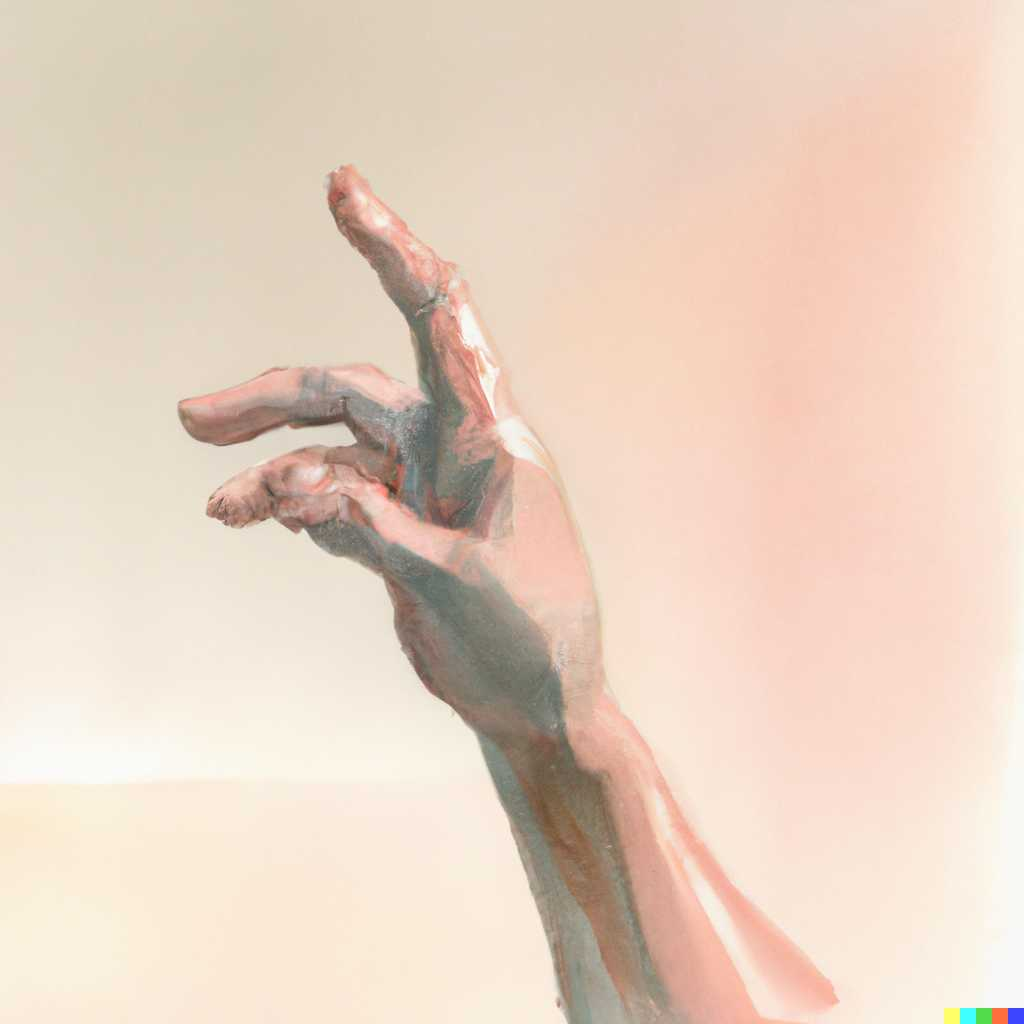
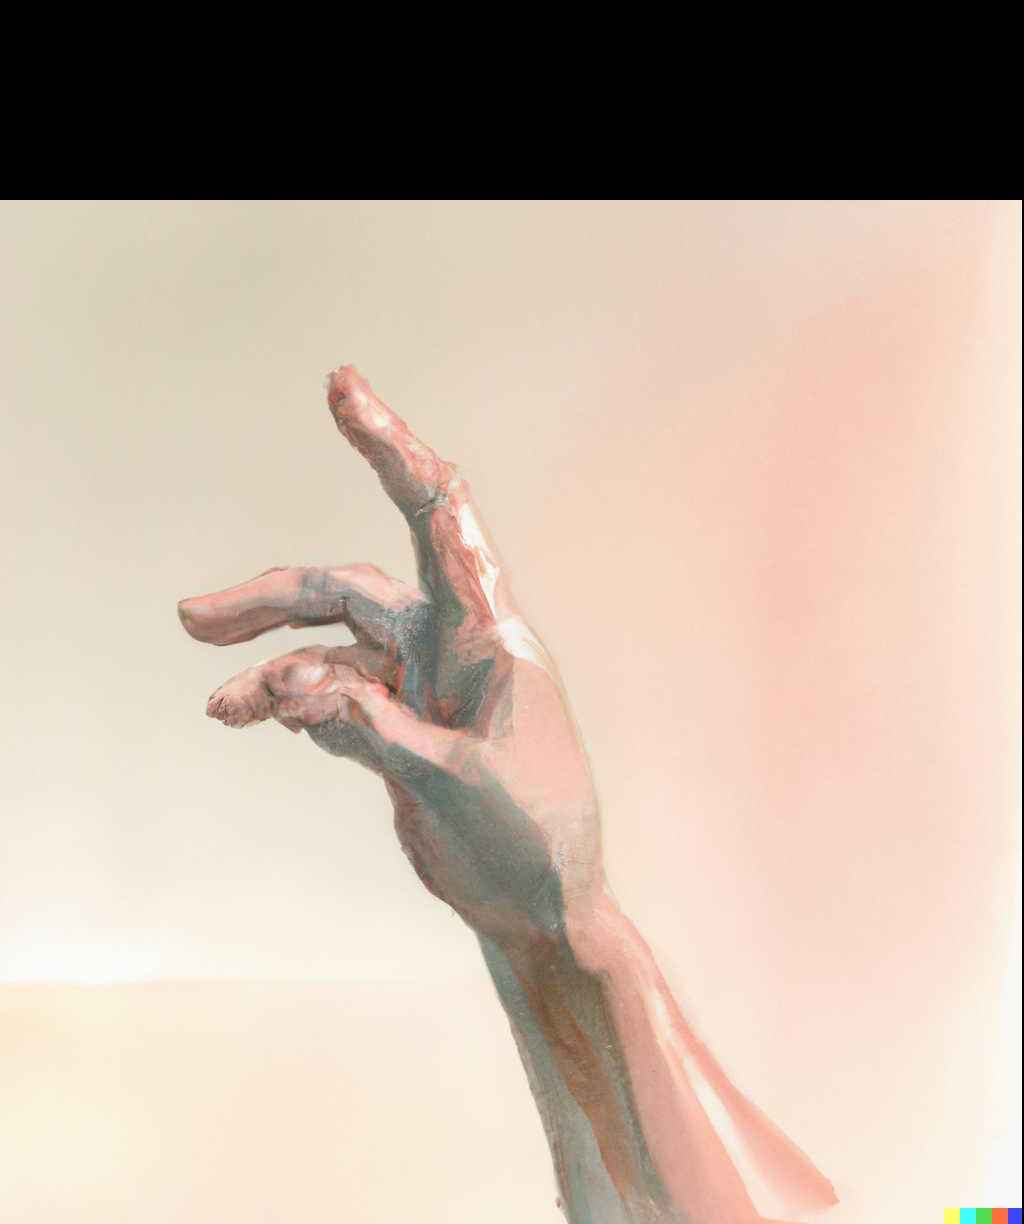
misc tweaks

diff --git a/_includes/cv/ed.html b/_includes/cv/ed.html
@@ -31,9 +31,9 @@
             Probabilistic programming, AI safety. Long detour on COVID models.
           </p>
           <p>
-             First year was a de-facto research Master’s (uncertainty modelling, NLP, GOFAI, legal aspects).<br> 
+             First year was a de-facto research Master’s (uncertainty modelling, NLP, GOFAI, legal aspects).<br><br> 
              Second year: COVID modelling. 
-             EPSRC Centre for Doctoral Training studentship (i.e. fully funded for 4 years).
+             EPSRC Centre for Doctoral Training studentship (4 years fully funded).
           </p>
           <p>
             Thesis: <a href="">Tensorised Probabilistic Programming</a>
@@ -54,7 +54,7 @@
             <a class="org" href="/ou">The Open University</a>
             <br class="break">  
         </time>
-        BSc Maths and Stats
+        BSc Maths & Stats
           <br class="break">
           <br class="break">
     
@@ -112,7 +112,7 @@
           <a class="org">University of Aberdeen</a>
           <br class="break">
         </time>
-        MA (Hons) Economics & Philosophy
+        MA Economics & Philosophy
         <br class="break">
         <br class="break">
         <button type="button" class="collapsible org">+</button>

diff --git a/_includes/timeline_code.html b/_includes/timeline_code.html
@@ -140,7 +140,7 @@ h1 {
 }
 
 .timeline ul li {
-  font-size: 20px;
+  font-size: 17px;
   list-style-type: none;
   position: relative;
   width: 6px;
@@ -205,7 +205,7 @@ h1 {
 
 time {
   display: block;
-  font-size: 1.2rem;
+  font-size: 1.15rem;
   font-weight: bold;
   margin-bottom: 15px;
 }

diff --git a/pages/about.md b/pages/about.md
@@ -34,7 +34,9 @@ visible:	true
 	<!-- https://www.scottaaronson.com/papers/philos.pdf -->
 	<!-- teaching people who want to know -->
 	<li>
-		Some of my <a href="/rec">favourite things</a> are Mexican food, Pakistan green, novelty, sudden relevance, brevity, <i>Mushishi</i>, <a class="noline" href="/deaths">these people</a>, <a href="{{starlings}}">this video</a>, Vines, shavasana, Scottish tap water, Frank Ramsey, Werner Herzog, Wodehouse, Limmy, Zach Weiner, Joanna Newsom, Pessoa, and Jonathan Meades.
+		Some of my <a href="/rec">favourite things</a> are Mexican food, Pakistan green, novelty, sudden relevance, brevity, <a class="noline" href="/deaths">these people</a>, Vines, shavasana, Scottish tap water, Frank Ramsey, Werner Herzog, Wodehouse, Zach Weiner, Joanna Newsom, Pessoa.
+		<!-- , and Jonathan Meades. -->
+		<!-- <a href="{{starlings}}">this video</a>,  -->
 	</li>
 	<br>
 	<li>

diff --git a/pages/cv.md b/pages/cv.md
@@ -109,7 +109,7 @@ visible:	false
         <time>
           2019
         </time>
-        UKRI studentship for PhD study (~$150k).
+        UKRI studentship for PhD (~$150k).
       </div>
     </li>
 
@@ -194,7 +194,7 @@ visible:	false
 </center>
 
 
-* <time><a href="/grids">Side effects in Gridworlds</a> (2018):</time> New Pycolab environments and implementations of DQN and MaxEnt IRL in Tensorflow. <a href="{{citess}}">Reused</a> in DeepMind and MIT papers.
+* <time><a href="/grids">Side effects in Gridworlds</a> (2018):</time> New Pycolab environments and implementations of DQN and MaxEnt IRL in Tensorflow. <a href="{{citess}}">Reused</a> in Deepmind papers.
 
 <br>
 

diff --git a/pages/favs/2022.md b/pages/favs/2022.md
@@ -6,7 +6,7 @@ visible:    false
 favpage:	true
 ---
 
-This year I decided to get into dancing. I actually got into kayaking, gelato, and fancy vinegar.
+This year I decided to get into dancing. I actually got into kayaking, gelato, Haskell, and fancy vinegar.
 
 This year I quit nicotine.
 
@@ -24,7 +24,7 @@ This year I quit nicotine.
 
 ## Other 
 
-* I learned Haskell until basically comfortable ([did Euler](https://github.com/g-leech/eulered/tree/master/haskell)). `for` loops are now hopelessly ugly to me.
+* I learned Haskell until comfortable ([did Euler](https://github.com/g-leech/eulered/tree/master/haskell)). `for` loops are now hopelessly ugly.
 
 <br>
 

diff --git a/pages/phd.md b/pages/phd.md
@@ -12,8 +12,6 @@ visible:	false
 {%	assign fo = "https://forrt.org/reversals"		%}
 
 
-_Currently on sabbatical._
-
 I'm interested in keeping an eye on AI. By a stroke of luck my PhD advisor is <a href="{{la}}">Laurence Aitchison</a>. I'm part of the Interactive Artificial Intelligence Centre for Doctoral Training at the University of Bristol.<br><br>
 
 <center>
